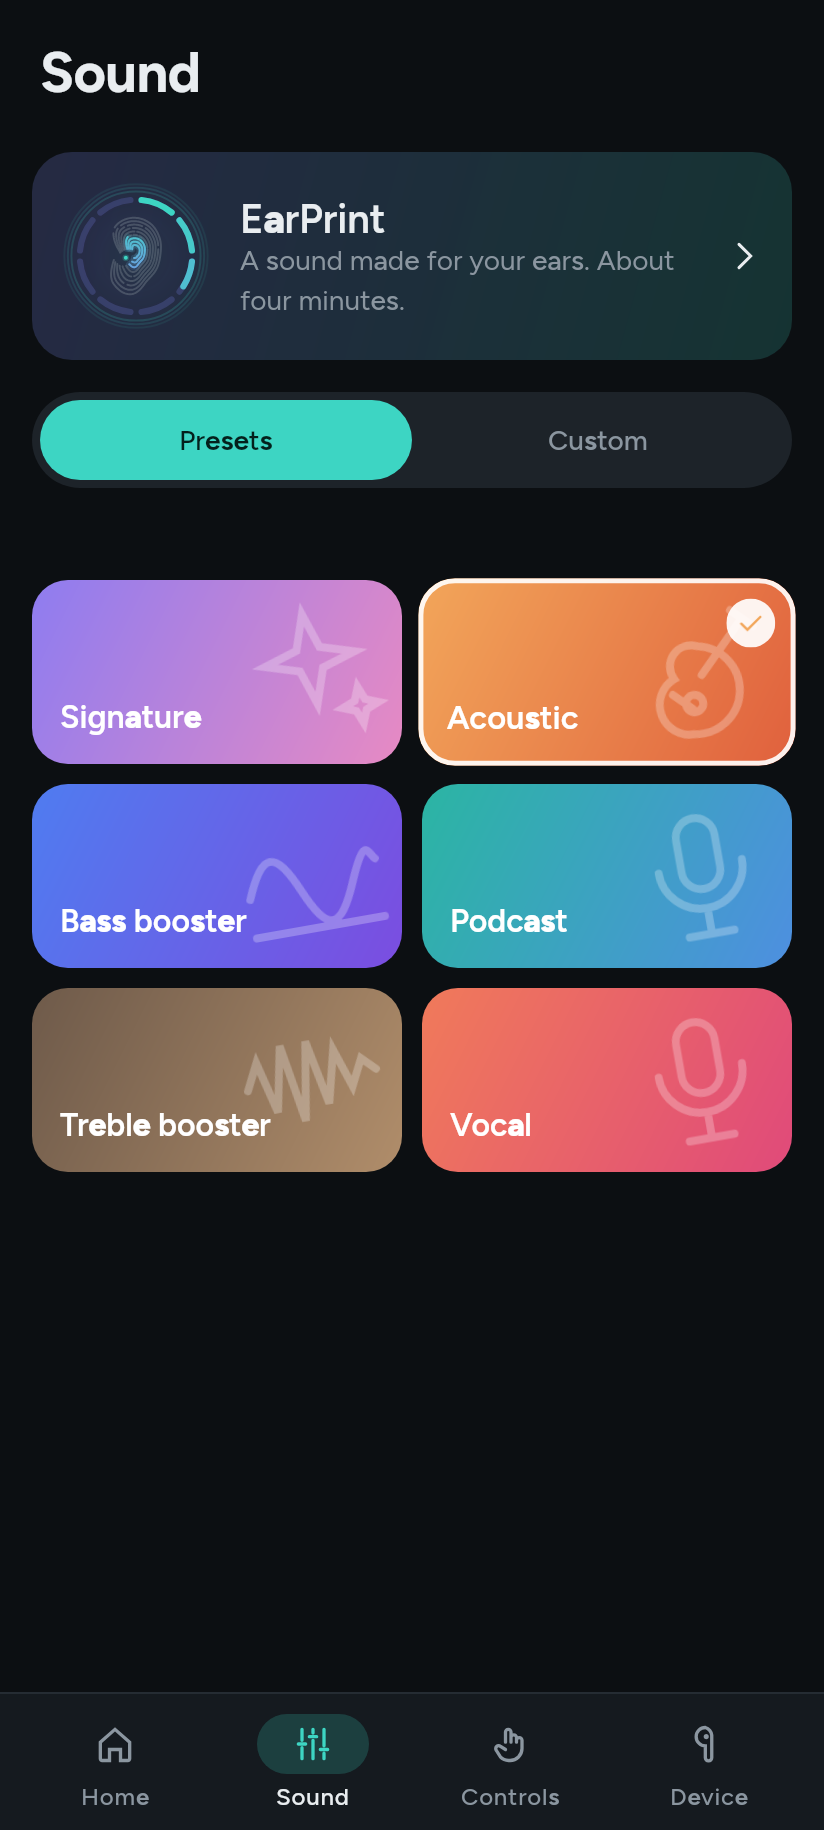
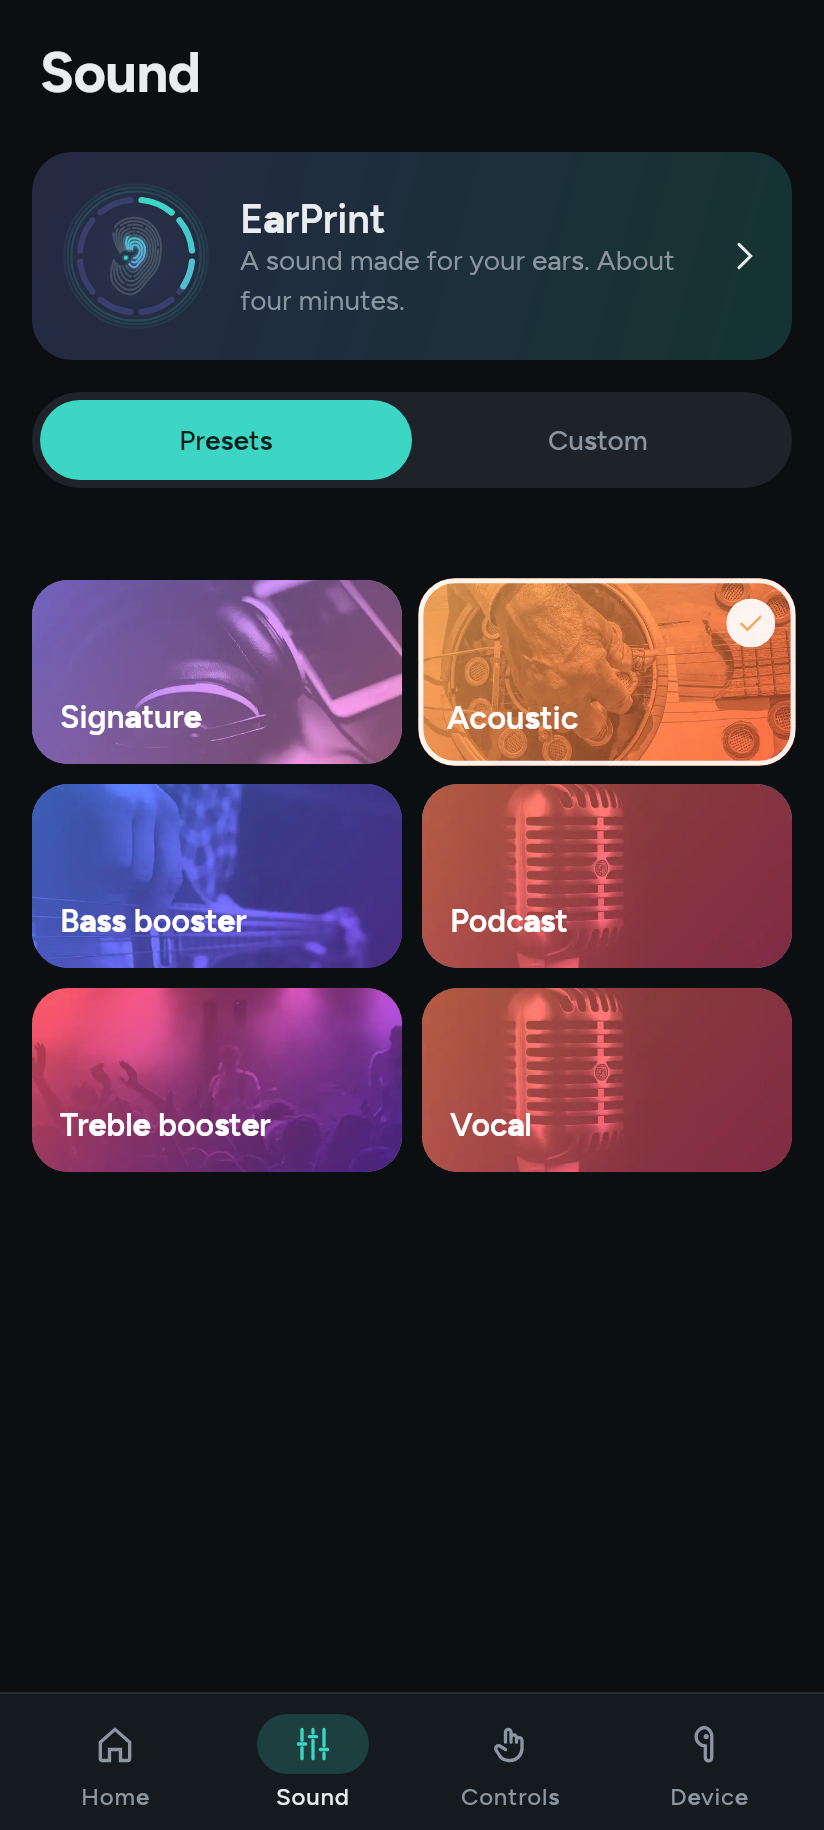
Screenshots: Sound tab with the new preset pictures; a check that draws all 22 presets

Changed region(s): [[0.0303, 0.3115, 0.9709, 0.6541]]

diff --git a/ui/src/jvmTest/kotlin/com/blazify/buds/ui/ArtShots.kt b/ui/src/jvmTest/kotlin/com/blazify/buds/ui/ArtShots.kt
@@ -4,6 +4,7 @@ import androidx.compose.foundation.Canvas
 import androidx.compose.foundation.background
 import androidx.compose.foundation.layout.Column
 import androidx.compose.foundation.layout.Row
+import androidx.compose.foundation.layout.padding
 import androidx.compose.foundation.layout.size
 import androidx.compose.ui.ImageComposeScene
 import androidx.compose.ui.Modifier
@@ -20,6 +21,35 @@ import kotlin.test.Test
 
 /** The drawn devices at each step of opening, in both looks, for checking them by eye. Only with SHOTS_DIR set. */
 class ArtShots {
+    @Test
+    fun drawPresets() {
+        val dir = System.getenv("SHOTS_DIR")?.let(::File) ?: return
+        dir.mkdirs()
+        val presets = com.blazify.buds.core.soundcore.A3947.PRESETS
+        for (theme in listOf(com.blazify.buds.ui.theme.ThemeChoice.Dark, com.blazify.buds.ui.theme.ThemeChoice.Light)) {
+            ImageComposeScene(412 * 2, 1180 * 2, Density(2f)) {
+                com.blazify.buds.ui.theme.BudsTheme(theme) {
+                    Column(
+                        Modifier.background(com.blazify.buds.ui.theme.LocalPalette.current.background).padding(16.dp),
+                        verticalArrangement = androidx.compose.foundation.layout.Arrangement.spacedBy(10.dp),
+                    ) {
+                        presets.chunked(2).forEachIndexed { row, pair ->
+                            Row(horizontalArrangement = androidx.compose.foundation.layout.Arrangement.spacedBy(10.dp)) {
+                                pair.forEachIndexed { i, (name, tenths) ->
+                                    com.blazify.buds.ui.blocks.PresetTile(row * 2 + i, name, tenths.take(8).map { it / 10.0 }, chosen = name == "Acoustic", modifier = Modifier.weight(1f), showCurve = false) {}
+                                }
+                            }
+                        }
+                    }
+                }
+            }.use { scene ->
+                var t = 0L
+                repeat(10) { scene.render(t); t += 100_000_000L }
+                File(dir, "presets-${theme.name.lowercase()}.png").writeBytes(scene.render(t).encodeToData(EncodedImageFormat.PNG)!!.bytes)
+            }
+        }
+    }
+
     @Test
     fun drawEarPrint() {
         val dir = System.getenv("SHOTS_DIR")?.let(::File) ?: return
